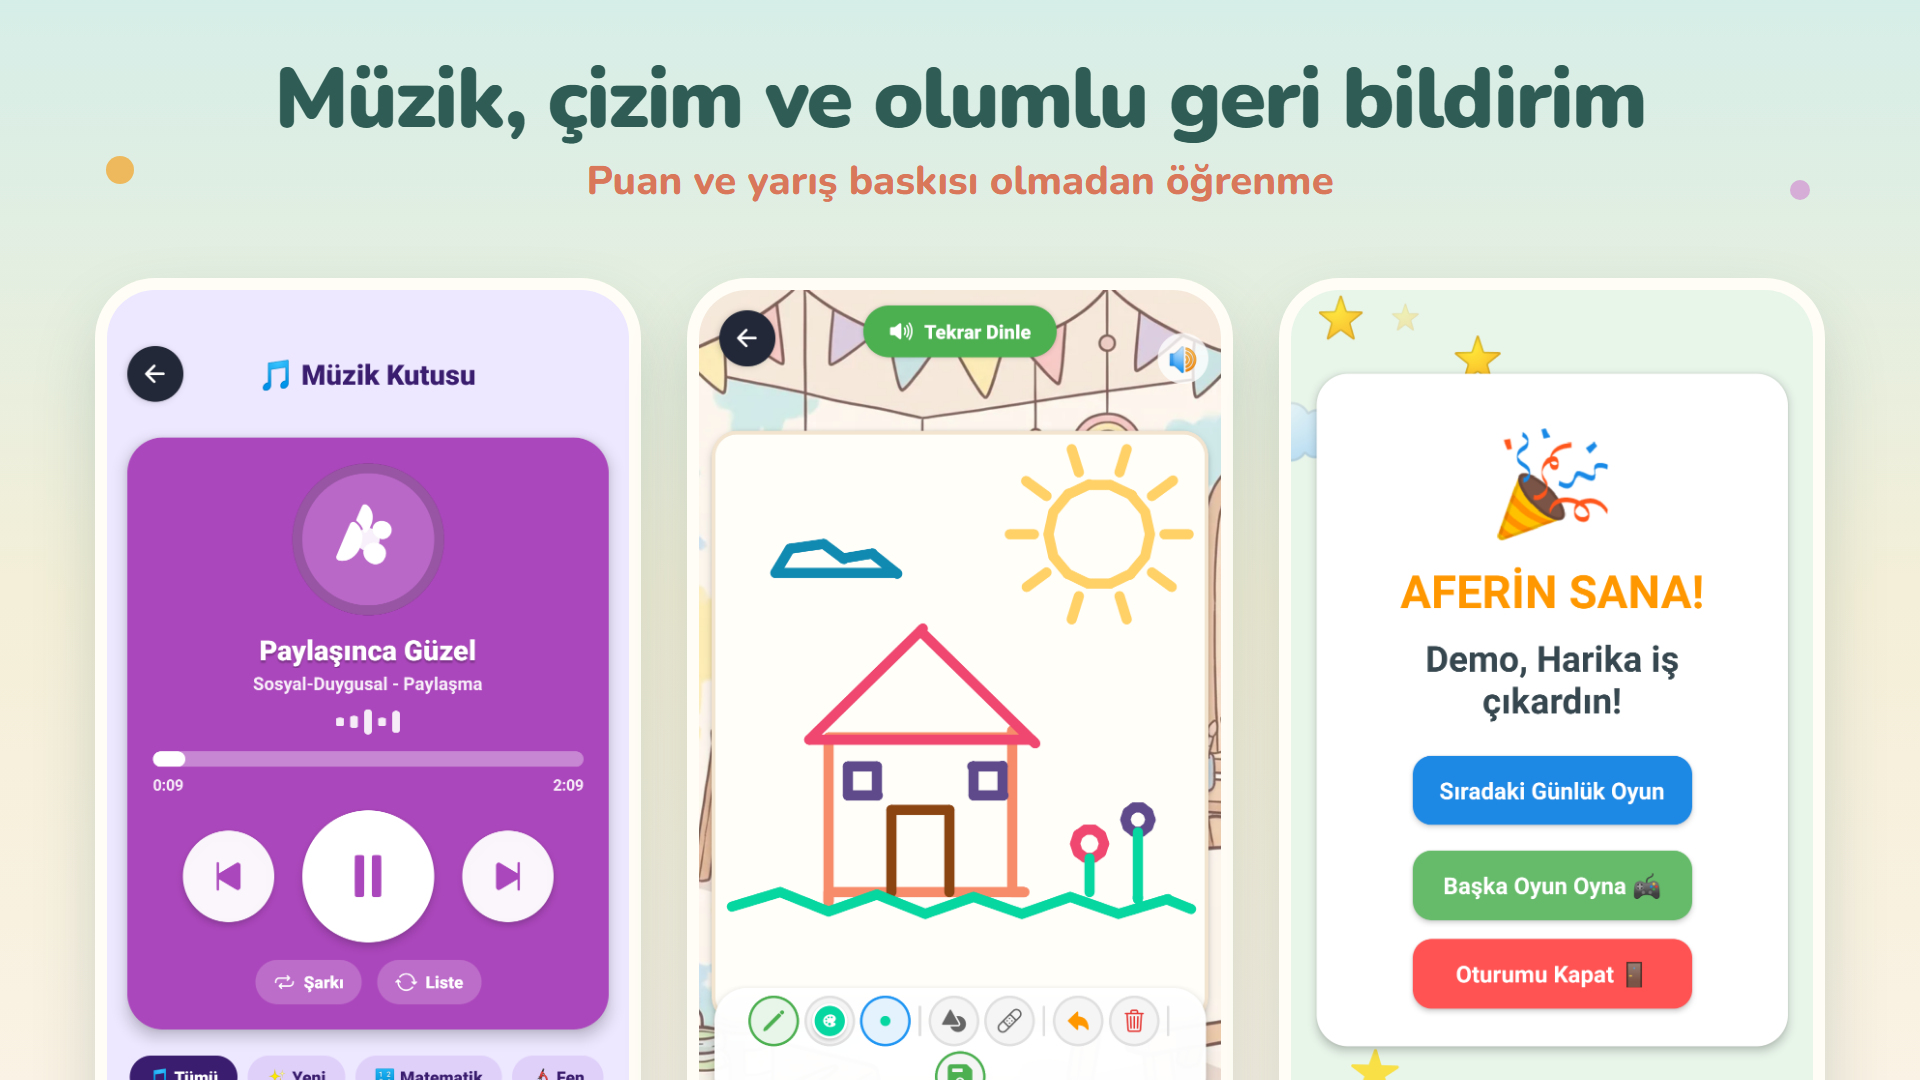
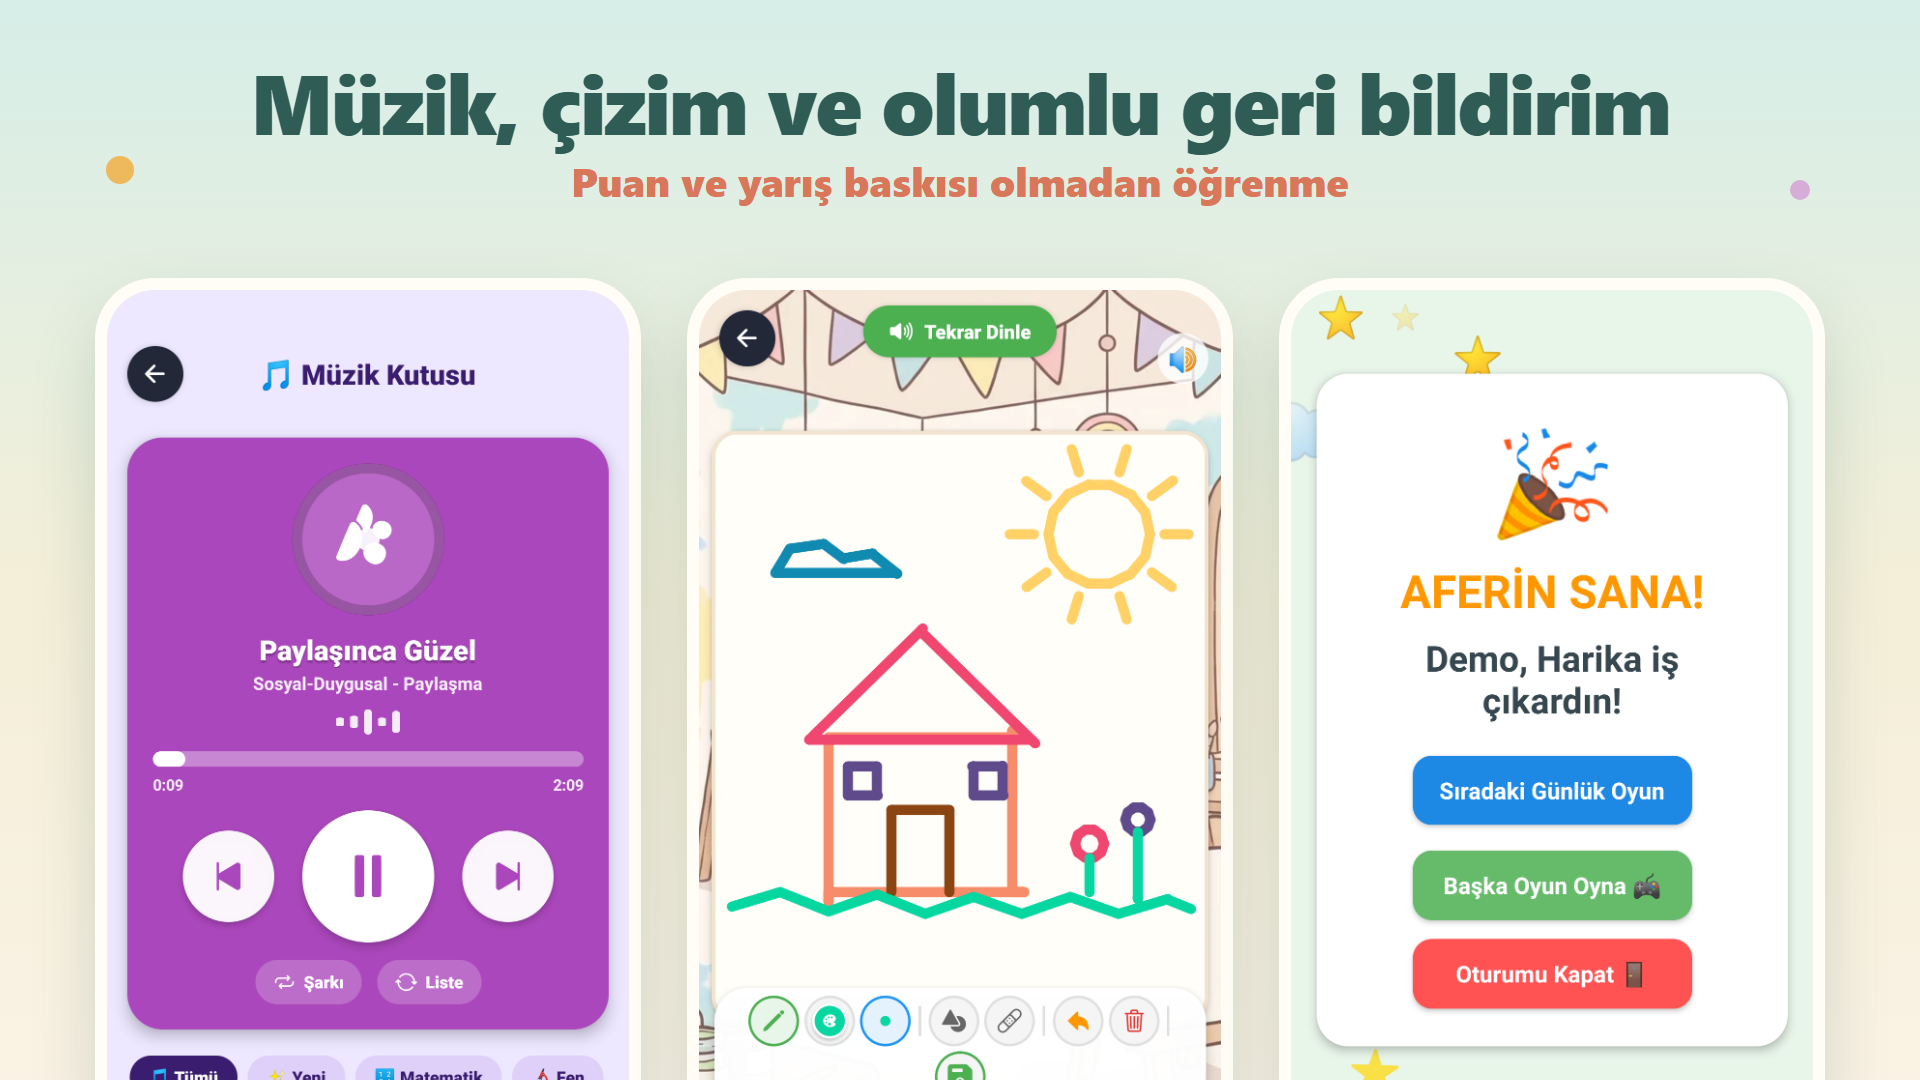
Play masaustu gorselleri 6'ya cikarildi (Play 4-8 ister)

Changed region(s): [[0.125, 0.0611, 0.875, 0.1833]]

diff --git a/store/play/yukle/NEREYE-YUKLENIR.md b/store/play/yukle/NEREYE-YUKLENIR.md
@@ -9,7 +9,7 @@ Play Console → Mağaza girişi → Ana mağaza girişi → Görsel öğeler
 | **Telefon ekran görüntüleri** (zorunlu) | `telefon/` | 7 | 1080×1920. Dosya adı sırasıyla yükle (01 → 07) |
 | Tablet, 7 inç | `tablet/` | 5 | İsteğe bağlı. Aynı dosyalar 7" ve 10" alanına yüklenebilir |
 | Tablet, 10 inç | `tablet/` | 5 | İsteğe bağlı |
-| Masaüstü | `masaustu/` | 3 | İsteğe bağlı. 1920×1080 |
+| Masaüstü | `masaustu/` | 6 | İsteğe bağlı. 1920×1080 (Play 4–8 görsel ister) |
 | Android XR | (boş bırak) | - | Uygulama XR için değil |
 
 Tüm ekran görüntüleri demo hesaptan alındı (çocuk adı "Demo", gerçek e-posta görünmez).
